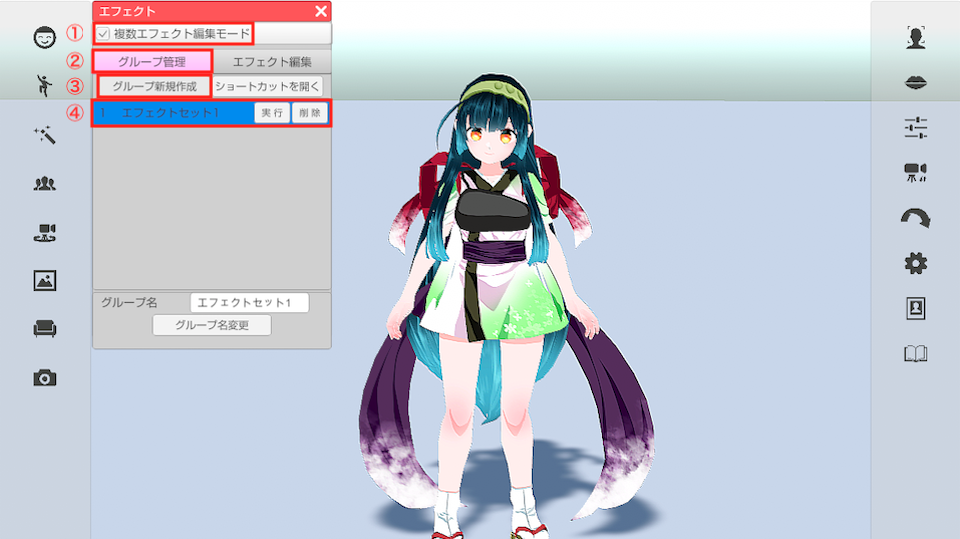
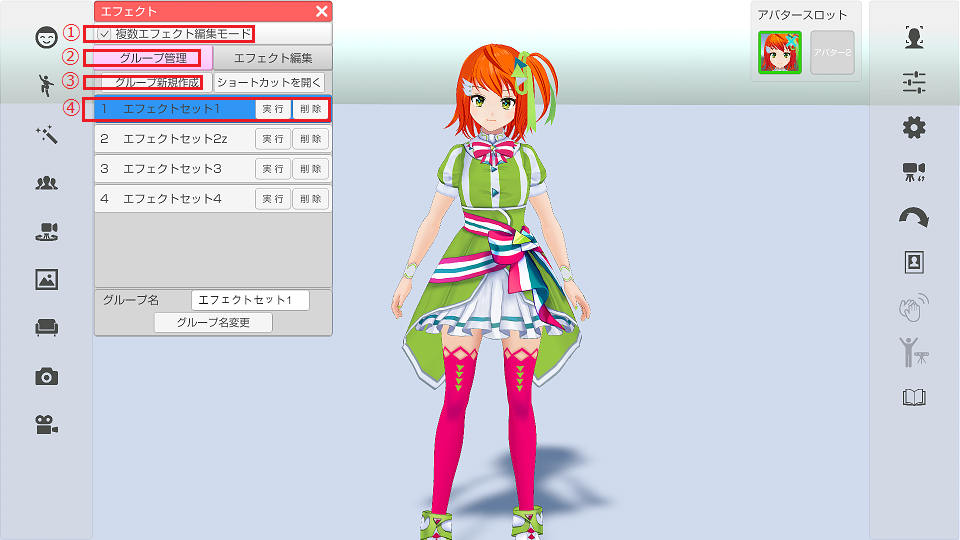
3tene V2 に合わせて修正。

diff --git a/history.md b/history.md
@@ -6,6 +6,34 @@
 >【PRO+Live2D】タグは 3tenePRO+LIVE2D のみの修正になります。 
 >【STUDIO】タグは 3teneSTUDIO のみ修正となります。
 
+### v2.0.0 2020/07/17
+- 機能追加・調整
+  - LeapMotion のモード切り替え（デスクトップ、ヘッドマウント）に対応
+  - 手を振る等のモーションを8個追加
+  - シーンカメラがアバターに追従する機能を追加
+  - 背景の変更状態を復帰する機能を追加
+  - 最新バージョンの確認を行う機能を追加
+  - 初回起動時に付属モデルを表示させるように変更
+  - 【PRO】アバターの複数人に対応（2人まで）
+  - 【PRO】iPhoneによるフェイストラッキングに自動表情変更機能を追加
+  - 【PRO】Azure Kinect に正式対応
+  - 【PRO】VR の設定に「演者の倍率」を追加
+  - 【PRO】VR のキャリブレーション開始を同ボタンの2秒長押しに変更
+  - 【PRO】アンチエイリアスの初期値を変更
+  - 【STUDIO】Hi5 VR Grove に対応
+
+- 不具合修正
+  - 1度も選択されていないVRMをリストから削除するとダイアログが消えないのを修正
+  - エフェクト調整ウインドウで位置や回転を細かく変更できるように修正
+  - エフェクト、オブジェクトの回転調整のY軸増減が逆になっているのを修正
+  - 中国語フォントを修正
+  - 【PRO】iPhoneによるフェイストラッキングの感度調整が正しく動作していないのを修正
+  - 【PRO】VR のキャリブレーション完了後に調整値が設定のスライダーに反映されるように修正
+  - 【PRO】VR タブを切り替えた時にトラッカーの項目がクリアされないように修正
+  - 【PRO】VR タブの「設定読み込み」が正常に動作しない場合があったのを修正
+  - 【PRO】Nuitrack + RealSense の腰トラッキングを修正
+  - 【PRO】メニューを隠している場合は3teneFTの接続アイコンも隠すよう修正
+
 ### v1.10.29 2020/06/30
 - 機能追加・調整
   - 【PRO】Azure Kinect に対応（3teneKinect β版）
@@ -22,6 +50,7 @@
   - 読み込んだオブジェクトの細かい調整機能を追加
   - Mac版3tene 「macOS Catalina」に正式対応
   - VRMファイルを追加（ふたは）
+  - エフェクトウインドウの操作 UI を改善。
   - 【PRO】NDI に対応（アルファ非対応）
   - 【PRO】iPhoneによるフェイストラッキングを調整
   - 【PRO】iPhoneによるフェイストラッキングに調整項目を追加
@@ -30,7 +59,6 @@
   - 【STUDIO】NDI のアルファ対応
 
 - 不具合修正
-  - エフェクトウインドウの UI を修正
   - 名称の文字入力でショートカットが動作しないように修正
   - 言語を中国語に変更すると表示されない文字があるのを修正
   - 【PRO+Live2D】Live2Dモデルの音声によるリップシンクをすべての母音で反応するように修正

diff --git a/ft_iphone_expression.md b/ft_iphone_expression.md
@@ -1,0 +1,60 @@
+## iPhoneX フェイストラッキングの表情自動変更(表情認識)
+
+### 表情の認識について
+
+>iPhoneX の高精度なフェイストラッキングを使う事で演者の表情を読み取り、
+>アバターの表情を「楽しい(Joy)、怒り(Angry)、悲しい(Sorrow)」に変更します。
+
+><font color="Blue">VRoidStudio 以外で作成した VRM モデルは
+>VRM 標準の Joy、Angry、Sorrow の表情が存在している必要があります。</font>
+
+
+### 準備と設定
+
+> 最初に iPhone でフェイストラッキングが動作する事を確認してください。
+>[iPhoneXによるフェイストラッキングについて](#ft_iphone.md)
+
+>アバター調整 → 「顔」タブ → 「表情自動実行」にチェックを付けます。
+
+![画像](image/iphonex_ft_expression_01.png "設定")
+
+
+### 認識具合を確認する
+
+>iPhoneX フェイストラッキングを開始します。
+
+>表情認識は下記を<font color="Blue">意識して表情を作る</font>と操作しやすくなります。
+
+><font color="Blue">Joy → 広角を広げる</font>
+><font color="Blue">Angry → まゆげを下げる</font>
+><font color="Blue">Sorrow → まゆげを上げる</font>
+
+>認識がうまく行われない場合は感度を変更する事で改善します。
+
+![画像](image/iphonex_ft_expression_02.png "設定")
+
+
+### 自動表情変更と口の動きの競合について
+
+>自動表情変更が有効な状態で口を動かすと表情の口と
+>状態が競合して正常な口の形状にならない場合があります。
+>（VRM モデルの作り方によって影響度が違います。）
+
+
+>VRoidStudio で作成したモデルに対しては対策を行っているので
+>競合は起きませんが、モデリングソフトで独自に作成したモデルは
+>この問題の対象となります。
+
+### 独自モデルの回避、自動表情変更で使用する表情のカスタム
+
+>Unity で VRM に下記の名前の BlendShape を追加する事によって競合を回避可能となります。
+また、自動表情変更で使用する表情をカスタムしたい場合も下記の名前で BlendShape を作成してください。
+(作成した BlendShape が優先となります。)
+
+>BlendShape名：<font color="Blue">Joy_ClosedMouth → 口だけを標準にした楽しい</font>
+>BlendShape名：<font color="Blue">Angry_ClosedMouth → 口だけを標準にした怒り</font>
+>BlendShape名：<font color="Blue">Sorrow_ClosedMouth → 口だけを標準にした悲しい</font>
+
+<img src="image/iphonex_ft_expression_03.png" width="600px">
+
+

diff --git a/ft_webcamera.md b/ft_webcamera.md
@@ -19,7 +19,7 @@
 >専用ドライバがある場合はそちらをインストールする事をお勧めします。
 ><font color="Blue">※複数ウェブカメラ同時使用には専用ドライバが必要です。</font>
 
->3tene を起動後、アバターの調整「設定」で接続したウェブカメラを選択します。
+>3tene を起動後、アバターの調整「設定」タブで接続したウェブカメラを選択します。
 
 ![画像](image/webcamera_settings_1.png "")
 
@@ -31,20 +31,19 @@
 
 ### フェイストラッキングを開始する
 
->右側メニューの一番の上のフェイストラッキングのアイコンをクリックして
->フェイストラッキングを開始します。
->口も同時に動かす場合は２番目のリップシンクのアイコンをクリックして
->リップシンクも開始します。
+>右側メニューのトラッキング開始のアイコンをクリックして
+>トラッキング開始のウインドウを表示します。
+>フェイストラッキングの開始ボタンをクリックするとトラッキングが開始されます。
 
-><font color="Blue">3teneSTUDIO の開始操作は[こちら](#TrackingWindow.md)になります。</font>
 
 ![画像](image/webcamera_settings_3.png "")
 
 
 ### ウェブカメラの映像を確認する
 
->右側メニューの7番目のウェブカメラプレビューのアイコンをクリックすると
+>右側メニューのウェブカメラプレビューのアイコンをクリックして
 >ウェブカメラの映像が表示されるプレビューウインドウを表示します。
+>フェイストラッキングで正常に顔が認識されているかを確認する事が出来ます。
 
 ![画像](image/webcamera_settings_4.png "")
 

diff --git a/Hi5VrGlove.md b/Hi5VrGlove.md
@@ -1,0 +1,38 @@
+## Hi5 VR GLOVEについて
+
+>センサーを付けたグローブを装着し、指を制御します。
+
+>Hi5 VR GLOVE で腕は動かせないので
+>PerceptionNeuron 等の全身操作の機器と合わせて使用します。
+>※PerceptionNeuron V2 と合わせて使用する場合は「全ての指を制御する」をオフにしてください。
+
+
+### Hi5 VR GLOVE の設定
+
+>アバターの調整 - 設定 - Hi5 VR GLOVE から設定、調整を行うことが出来ます。
+
+![画像](image/Hi5vrGlove_01.png "設定")
+
+
+>・Hi5 VR GLOVE を使用する
+>　Hi5 VR GLOVE を使用するかを設定します。
+
+>・親指の角度
+>　Hi5 VR GLOVE 使用時の 3tene で表示されているキャラクターの親指の角度を調整します。（40～60 推奨）
+
+>・Hi5 VR GLOVE キャリブレーション
+>　Hi5 VR GLOVE のキャリブレーションを行います。
+>　「Hi5 VR GLOVE を使用する」が ON の時のみ選択可能
+
+
+### Hi5 VR GLOVE キャリブレーション
+
+>「Hi5 VR GLOVE キャリブレーション」を選択すると画面が切り替わります。
+>画面の指示に従いキャリブレーションを進めてください。
+>「キャリブレーション開始」を選択すると Bポーズ、Pポーズの順でキャリブレーションを行います。
+>キャリブレーション終了後は「キャリブレーション終了」を選択すると 3tene の画面に戻ります。
+
+>複数のキャラクターにHi5 VR GLOVE の動きを反映することが出来ます。
+>「Hi5 VR GLOVE を使用する」のチェックが入っているキャラクター全てに Hi5 VR GLOVE の動きが反映されます。
+
+

diff --git a/ft_iphone.md b/ft_iphone.md
@@ -89,11 +89,9 @@
 ![画像](image/iphonex_ft_howto_3.png "")
 
 
->さらに<font color="Blue">右側メニュー1番上の「顔認証の実行・停止」をクリックします。（アイコンが緑に変化）</font>
->フェイストラッキングが開始されると iPhone からの接続待ち状態になります。
-
-><font color="Blue">3teneSTUDIO の開始操作は[こちら](#TrackingWindow.md)になります。</font>
-
+>さらに右側メニューの「トラッキングの開始」アイコンをクリックします。
+>トラッキングの開始ウインドウの開始ボタンをクリックしてトラッキングを開始します。
+><font color="Blue">フェイストラッキングが開始されると iPhone からの接続待ち状態になります。</font>
 
 ![画像](image/iphonex_ft_howto_4.png "")
 
@@ -129,7 +127,7 @@
 
 ![画像](image/iphonex_ft_howto_7.png "")
 
-><font color="Red">10秒程度待って接続アイコンが表示されない場合は PC のファイアウォールの確認、
+><font color="Red">5秒程度待って接続アイコンが表示されない場合は PC のファイアウォールの確認、
 >もしくは 3teneFT 側のIPアドレス入力を確認してください。</font>
 
 >※アバターの調整「顔」の感度・倍率・まばたきの感度の設定を変更しても反映されません。

diff --git a/AboutMenu.md b/AboutMenu.md
@@ -2,10 +2,22 @@
 
 ### メニューアイコンの説明
 
-![画像](image/menu_detile.png "メニュー右")
+![画像](image/menu_detile.png "左右メニュー")
 
 ><font color="Blue">※フリー版にはNuitrackのプレビューのアイコンはありません。</font>
-><font color="Blue">※Mac には動画保存のアイコンはありません。</font>
+><font color="Blue">※Mac にはLeapMotion、動画保存のアイコンはありません。</font>
+
+### アバタースロット
+
+>複数人に対応している 3tene ではアバタースロットで指定した
+>アバターが各種操作の対象になります。
+
+![画像](image/menu_avatar_slot.png "アバタースロット")
+
+><font color="Blue">アバターの調整はアバタースロットで指定されているアバターが対象となります。</font>
+>スロットでアバターを変更し、人数分の調整を行う必要があります。
+
+><font color="Blue">表情やモーションもアバタースロットで指定されているアバターが対象となります。</font>
 
 
 ### ツールチップ

diff --git a/function.md b/function.md
@@ -31,18 +31,13 @@
 
 >iPhoneX 以降と連携して高精度フェイストラッキングを行います。
 >[iPhoneXによるフェイストラッキングについて](#ft_iphone.md)
+>>[iPhoneX フェイストラッキングの表情自動変更(表情認識)](#ft_iphone_expression.md)
 
 
 ### リップシンク
 
 >アバターの口を動かす機能です。
 >[リップシンクについて](#lipsync.md)
-
-
-### トラッキング開始ウインドウ (3teneSTUDIOのみ)
-
->複数のアバターのトラッキング開始、停止を操作するウインドウです。
->[トラッキング開始ウインドウについて](#TrackingWindow.md)
 
 
 ### 表情
@@ -90,6 +85,12 @@
 
 >センサーを付けたボディストラップ（固定ベルト）を装着して全身を動かします。
 >[Perception Neuronについて](#PerceptionNeuron.md)
+
+
+### Hi5 VR GLOVE
+
+>センサーを付けたグローブを装着して両手を動かします。
+>[Hi5 VR GLOVEについて](#Hi5VrGlove.md)
 
 
 ### MIDI

diff --git a/effect.md b/effect.md
@@ -5,7 +5,7 @@
 
 ### エフェクトのウインドウを表示する
 
->左側メニューの３番目のエフェクトをクリックするとエフェクトウィンドウが表示されます。
+>左側メニューのエフェクトのアイコンをクリックするとエフェクトウィンドウが表示されます。
 
 ![画像](image/ScreenEffect_1.png "")
 
@@ -116,7 +116,7 @@
 ### グループを再生する
 
 >上部タブ「グループ管理」をクリックしてグループ管理画面を表示します。
->リストの「実行」をクリックするとグループを再生することができます。画像①
+>リストの「実行」をクリックするとグループに登録されているエフェクトを全て再生します。画像②
 
 ![画像](image/ScreenEffect_12.png "")
 

diff --git a/lipsync.md b/lipsync.md
@@ -21,9 +21,9 @@
 
 ### リップシンクの有効、無効を切り替える
 
->右側メニューの上から２番目をクリックして有効、無効を切り替えます。
-
-><font color="Blue">3teneSTUDIO の開始操作は[こちら](#TrackingWindow.md)になります。</font>
+>右側メニューのトラッキング開始のアイコンをクリックして
+>トラッキング開始のウインドウを表示します。
+><font color="Blue">リップシンクの開始ボタンをクリックするとリップシンクが開始されます。</font>
 
 ![画像](image/menu_lipsync.png "メニューリップシンク")
 
